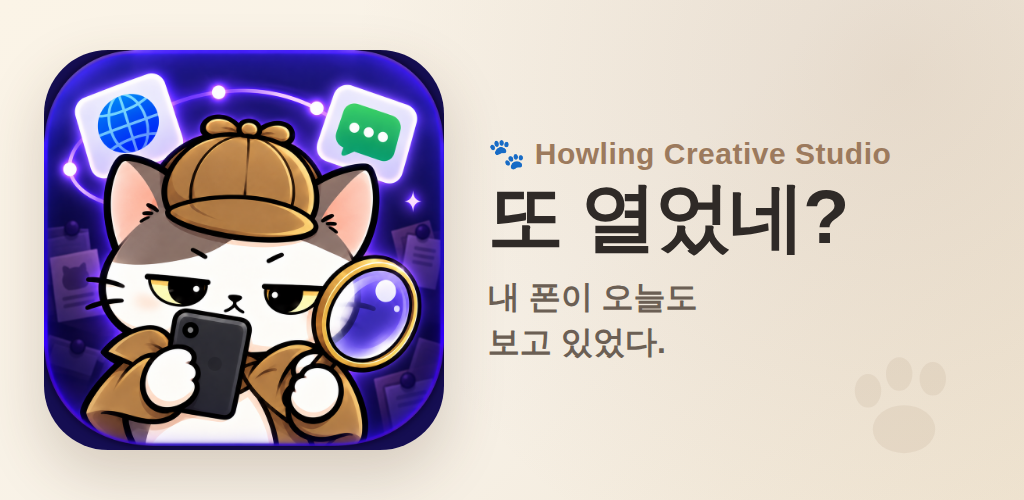
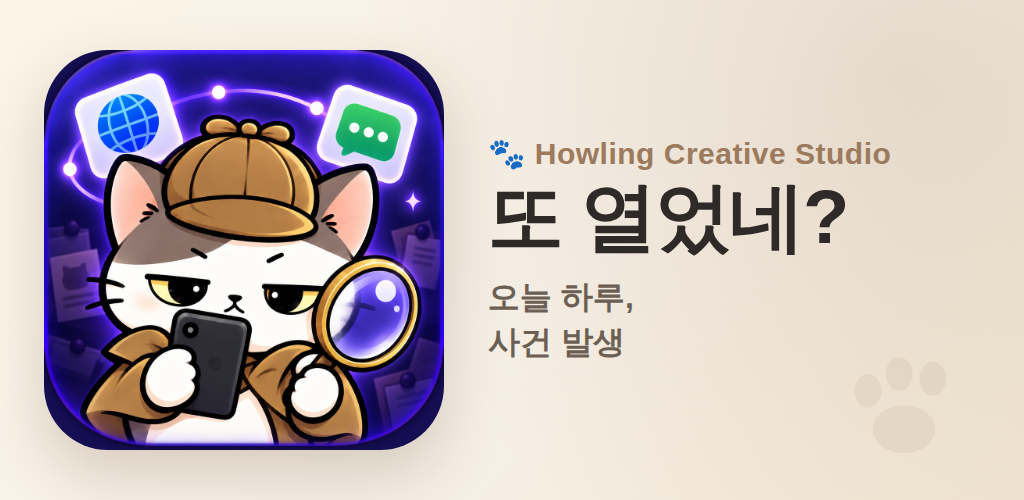
opened-again: 피처 그래픽 태그라인 수정 ("오늘 하루, 사건 발생")
감독 피드백: "내 폰이 오늘도 보고있었다"보다 자연스러운 문구로.
"오늘도 딱 걸렸다"/"오늘 하루, 사건 발생"/"오늘도 수상한 하루였다" 중
"오늘 하루, 사건 발생"으로 결정.

Claude-Session: https://claude.ai/code/session_01K3H42tfj45Rkj6Krfb6USr

Changed region(s): [[0.4688, 0.57, 0.6875, 0.63], [0.4688, 0.66, 0.6562, 0.72]]

diff --git a/opened-again-android/store-assets/capture-feature-graphic.html b/opened-again-android/store-assets/capture-feature-graphic.html
@@ -35,6 +35,6 @@
   <div class="text">
     <div class="brand">🐾 Howling Creative Studio</div>
     <div class="title">또 열었네?</div>
-    <div class="tagline">내 폰이 오늘도<br>보고 있었다.</div>
+    <div class="tagline">오늘 하루,<br>사건 발생</div>
   </div>
 </body></html>
